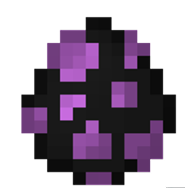
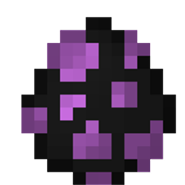
Reorganize static assets and update templates
Move login and registration CSS into app/static/css and relocate the HTML pages from app/static to app/templates. Update template references to the new CSS paths (../static/css/...) and adjust the egg image src to ../static/images/cosmetics/egg.png. Also replace/update the egg2.png image binary. This tidies project structure and fixes asset paths for templates.

diff --git a/app/templates/login_laptop.html b/app/templates/login_laptop.html
@@ -4,7 +4,7 @@
     <meta charset="UTF-8">
     <meta name="viewport" content="width=device-width, initial-scale=1.0">
     <title>Login</title>
-    <link rel="stylesheet" href="style_login_page.css">
+    <link rel="stylesheet" href="../static/css/style_login_page.css">
     <!-- шрифт  Press Start 2P-->
     <link rel="preconnect" href="https://fonts.googleapis.com">
     <link rel="preconnect" href="https://fonts.gstatic.com" crossorigin>
@@ -16,7 +16,7 @@
   <div class="card">
 
     <div class="card-header">
-      <div class="icon-box"><img class="image" src="egg2.png" alt="Tamagochi egg illustration" /></div>
+      <div class="icon-box"><img class="image" src="../static/images/cosmetics/egg.png" alt="Tamagochi egg illustration" /></div>
       <h2>LOGIN</h2>
       <p>Log in to continue</p>
     </div>

diff --git a/app/templates/reg_laptop.html b/app/templates/reg_laptop.html
@@ -4,7 +4,7 @@
     <meta charset="UTF-8">
     <meta name="viewport" content="width=device-width, initial-scale=1.0">
     <title>Registration</title>
-    <link rel="stylesheet" href="style_reg_page.css">
+    <link rel="stylesheet" href="../static/css/style_reg_page.css">
     <!-- шрифт  Press Start 2P-->
     <link rel="preconnect" href="https://fonts.googleapis.com">
     <link rel="preconnect" href="https://fonts.gstatic.com" crossorigin>
